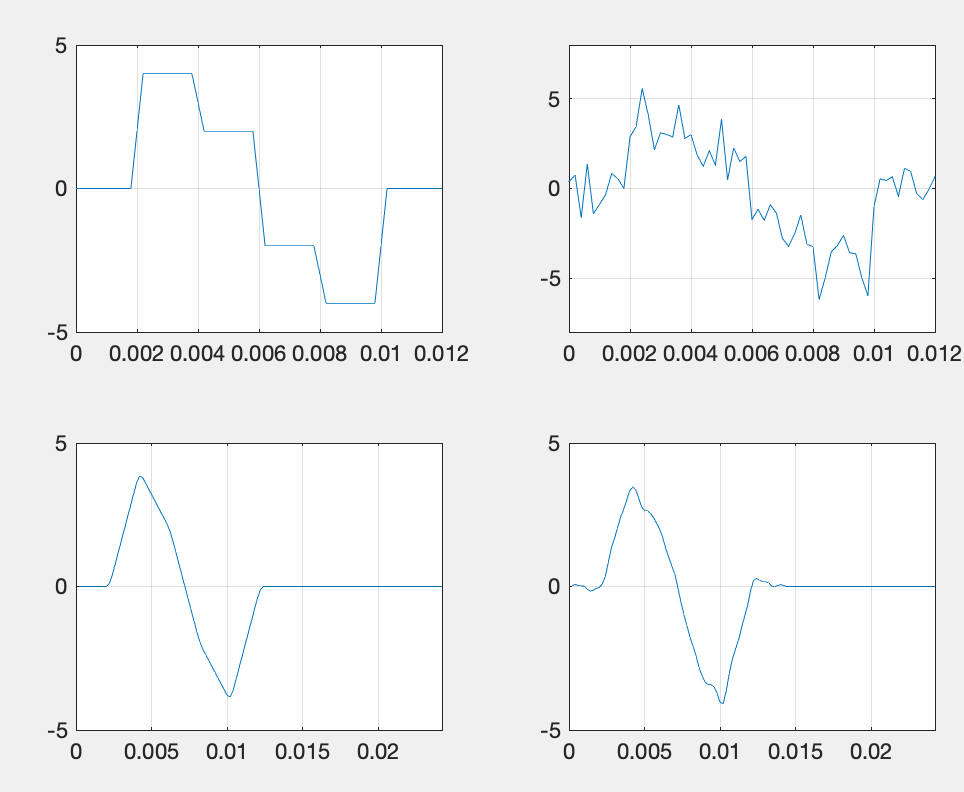
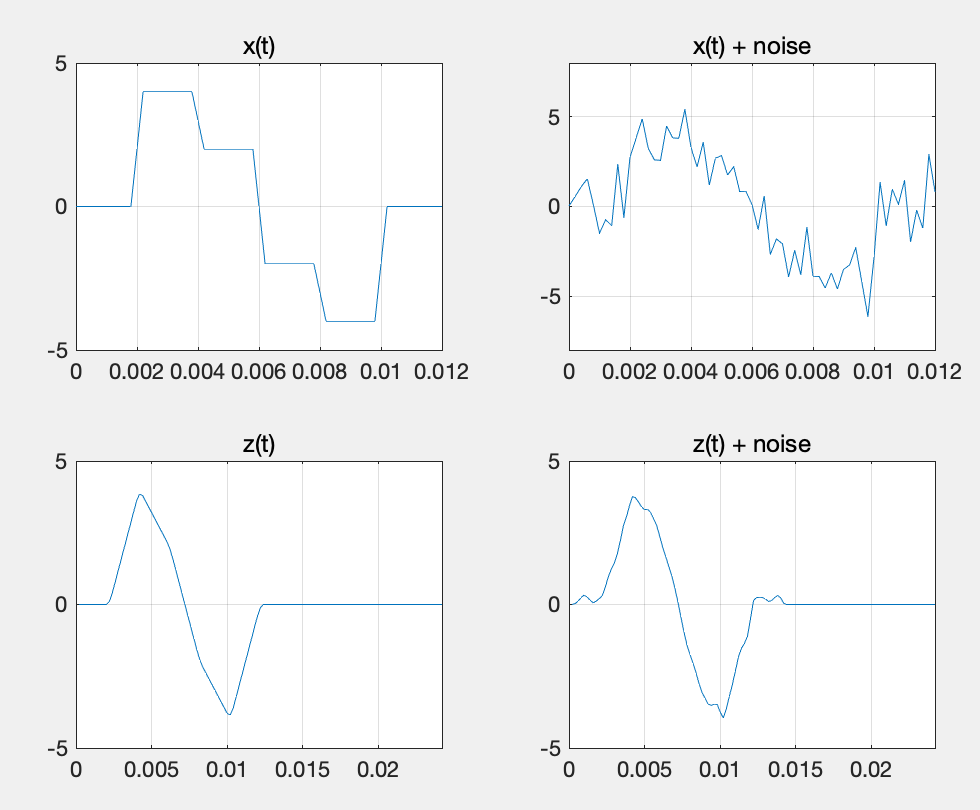
first version of lab2

diff --git a/lab2/task15.m b/lab2/task15.m
@@ -2,9 +2,9 @@ original_sequence_list = []
 bk_list = []
 
 % increase variance to test function
-for i = 1:50
+for i = 1:100
     original_sequence = create_test_sequence(8);
-    bk = match_filter_test(original_sequence,0,5);
+    bk = match_filter_test(original_sequence,0,i);
     
     original_sequence_list = [original_sequence_list;original_sequence]
     bk_list = [bk_list;bk]
@@ -12,3 +12,17 @@ end
 
 % check different index
 error_position = original_sequence_list ~= bk_list
+
+[m,n] = size(error_position)
+
+% find the variance when error happen 
+variance_position = []
+for i = 1:m
+    if(ismember(1,error_position(i,:)))
+        sprintf('When variance is %d, function cause error.',i) 
+        variance_position = [variance_position,i]
+    end
+end
+
+% show the density of error
+scatter(variance_position,variance_position)

diff --git a/lab2/task11.m b/lab2/task11.m
@@ -13,12 +13,14 @@ subplot(2,2,1)
 plot(t,singals_points)
 grid on
 axis([0 max(t) -5 5]) 
+title('x(t)')
 
-signal_noise_y = add_noise(singals_points)
+signal_noise_y = add_noise_parameters(singals_points,0,10)
 subplot(2,2,2)
 plot(t,signal_noise_y)
 grid on
 axis([0 max(t) -8 8]) 
+title('x(t) + noise')
 
 h_t = match_filter(t);
 
@@ -28,11 +30,13 @@ tz = T_0*(1:length(z_t))
 plot(tz,z_t)
 grid on
 axis([0 max(tz) -5 5])
+title('z(t)')
 
 z_t_noise =  T_0/T_s*conv(signal_noise_y, h_t)
 subplot(2,2,4)
 plot(tz,z_t_noise)
 grid on
 axis([0 max(tz) -5 5])
+title('z(t) + noise')
 
 zk = generate_zk(z_t_noise,4)

diff --git a/lab2/match_filter_test.m b/lab2/match_filter_test.m
@@ -1,5 +1,8 @@
 function bk = match_filter_test(binary_sequence, mu, variance)
 
+% @ param mu is mean of noise
+% @ param variance is the variance of noise
+
 % generate original signal
 signals_points = modulator(binary_sequence);
 

diff --git a/lab2/create_test_sequence.m b/lab2/create_test_sequence.m
@@ -1,5 +1,7 @@
 function str = create_test_sequence(length)
 
+% length means the length of binary sequence
+
 if(mod(length,2) == 1)
     length = length +1;
 end

diff --git a/lab2/report/EEE411-Lab2-advanced signal processing.md b/lab2/report/EEE411-Lab2-advanced signal processing.md
@@ -72,7 +72,7 @@ decode_value =
 
 ##### Analysis
 
-##### As we can see from result,  I can use this function to implement mapping. However I use hashmap to code, because this kind of data structure is very powerful and can be seen in most program languages. It is a key-value structure and use hash function for mapping fastly. By the way, we can use $if - else$ to implement this function too but it is a not beautiful method. 
+##### As we can see from result,  I can use this function to implement mapping. However I use hashmap which is called dictionary in python to code, because this kind of data structure is very powerful and can be seen in most program languages. It is a key-value structure and use hash function for mapping fastly. By the way, we can use $if - else$ to implement this function too but it is a not beautiful method. 
 
 #### Next, write a Matlab function that maps a sequence of data bits to the LAB function that maps a sequence of modulation symbols. 
 
@@ -120,7 +120,7 @@ decode_value =
 
 ##### Sketch
 
-
+<img src="/Users/geekye/Documents/Courses/advanced signal processing/lab/lab2/report/task2_2.jpeg" alt="task2_2" style="zoom: 50%;" />
 
 ##### Code 
 
@@ -162,11 +162,11 @@ $$
 
 ##### Sketch
 
-
+<img src="/Users/geekye/Documents/Courses/advanced signal processing/lab/lab2/report/task3_2.jpeg" style="zoom:50%;" />
 
 ##### Analysis
 
-##### The sketch is a sequence of signal and corresponding to theoretical curve.
+I choose ${4,2,-2,-4}$ as modulation symbols and $00011110$ as bit sequence. The sketch is a sequence of signal and corresponding to theoretical curve.
 
 ---
 
@@ -297,7 +297,7 @@ axis([0, 6*T_s, -5 5])
 
 ##### Analysis
 
-##### The transmit signal is corresponding to previous 2 problems. However the signal is $x_k(t) = a_k · p(t-T_s)$ in problem 4, and the signal is $x(t) = \sum_{k=1}^{K} a_k ·p(t-kT_s).$ in problem 5. Therefore, there is a little difference between them. But essence of these problem is same.
+##### The transmit signal is corresponding to previous 2 problems. However the signal is $x_k(t) = a_k · p(t-T_s)$ in problem 4, and the signal is $x(t) = \sum_{k=1}^{K} a_k ·p(t-kT_s)$ in problem 5. Therefore, there is a little difference between them.Because $x(t)$ is the sum of $x_k(t)$. But essence of these problem is same.
 
 ---
 
@@ -321,7 +321,7 @@ A[Recv Filter] -->|zt|B(Sampler)
 
 ##### Sketch
 
-
+<img src="/Users/geekye/Documents/Courses/advanced signal processing/lab/lab2/report/task5_2.jpeg" style="zoom:50%;" />
 
 ##### Code 
 
@@ -587,6 +587,8 @@ zk =
 
 ##### I use the 10 magnitude of step or 0.002 in time to obtain $z_k$ from $z(t)$, because we can find the interval of $z_k(t)$ is 0.002, and we use 10 samping points per period. Therefore, I use 10 samping length to get $z_k$. 
 
+---
+
 ### Problem 11 (12 points)
 
 #### Assume now transmission over an AWGN channel: $y(t) = x(t)+w(t)$. With Matlab you can obtain a noisy receive signal with the following commands: 
@@ -618,12 +620,14 @@ subplot(2,2,1)
 plot(t,singals_points)
 grid on
 axis([0 max(t) -5 5]) 
+title('x(t)')
 
-signal_noise_y = add_noise(singals_points)
+signal_noise_y = add_noise_parameters(singals_points,0,1)
 subplot(2,2,2)
 plot(t,signal_noise_y)
 grid on
 axis([0 max(t) -8 8]) 
+title('x(t) + noise')
 
 h_t = match_filter(t);
 
@@ -633,23 +637,39 @@ tz = T_0*(1:length(z_t))
 plot(tz,z_t)
 grid on
 axis([0 max(tz) -5 5])
+title('z(t)')
 
 z_t_noise =  T_0/T_s*conv(signal_noise_y, h_t)
 subplot(2,2,4)
 plot(tz,z_t_noise)
 grid on
 axis([0 max(tz) -5 5])
+title('z(t) + noise')
 
 zk = generate_zk(z_t_noise,4)
 ```
 
 ##### Result
 
-<img src="/Users/geekye/Documents/Courses/advanced signal processing/lab/lab2/report/task11.png" alt="image-20191122183735065" style="zoom:50%;" />
+<img src="/Users/geekye/Documents/Courses/advanced signal processing/lab/lab2/report/task11.png" alt="image-20191124153010551" style="zoom:50%;" />
+
+<center>noise with 1 variance</center>
+
+<img src="/Users/geekye/Documents/Courses/advanced signal processing/lab/lab2/report/task11_2.png" alt="image-20191124180700195" style="zoom:50%;" />
+
+<center>noise with 5 varian </center>
+
+<img src="/Users/geekye/Documents/Courses/advanced signal processing/lab/lab2/report/task11_3.png" alt="image-20191124180815640" style="zoom:50%;" />
+
+<center>
+  noise with 10 variance
+</center>
 
 ##### Analysis
 
-##### 
+As we can see from result, I choose various variance noise to experiment. Noise damage the signal on $y(t)$ and $z(t)$ to some extend. However noise has a bigger impact on $y(t)$ than $z(t)$. Noise almost destroy shape of $y(t)$, but $z(t)$ can be distinguished when variance of noise is 10. Therefore, it is easier to estimate the transmitted modulation symbol $a_k$ from $z(t)$.
+
+---
 
 ### Problem 12 (6 points)
 
@@ -701,7 +721,9 @@ ak =
 
 ##### Analysis
 
+I use the distance to get the closest point. For example, when we receive $2.1$ , we can calculate the distance to vector $[4,2,-2,-4]$. Then the result is $[1.9,0.1,4.1,6.1]$. Therefore the shortest distance is $0.1$ and $0.1$ is the absolute value of $2.1 - 2$ . Finally, the answer is 2. In addition, I use hashmap which is called dictionary in python to implement the mapping from distance to modulation symbol.
 
+---
 
 ### Problem 13 (6 points)
 
@@ -747,7 +769,7 @@ bk =
 
 ##### Analysis
 
-
+Because I use the hashmap (dictionary) in the form of $00 - 4$ in previous problems. In this problem, I use the hashmap in the form of $-4 - 00$ to map which is similar to previous function.
 
 ### Digital transmission system 
 
@@ -763,6 +785,9 @@ bk =
 
 ```matlab
 function bk = match_filter_test(binary_sequence, mu, variance)
+
+% @ param mu is mean of noise
+% @ param variance is the variance of noise
 
 % generate original signal
 signals_points = modulator(binary_sequence);
@@ -795,6 +820,8 @@ end
 ```matlab
 function str = create_test_sequence(length)
 
+% length means the length of binary sequence
+
 if(mod(length,2) == 1)
     length = length +1;
 end
@@ -811,9 +838,25 @@ end
 end
 ```
 
+```matlab
+original_sequence = create_test_sequence(8);
+bk = match_filter_test(original_sequence,0,1);
+```
+
+##### Result
+
+```matlab
+original_sequence =
+
+    '01010010'
+bk =
+
+    '01010010'
+```
+
 ##### Analysis
 
-
+As we can see from result, when noise with variance of 1, signal can be recover successfully. It is expected.
 
 ### Problem 15 (6 points)
 
@@ -826,16 +869,30 @@ original_sequence_list = []
 bk_list = []
 
 % increase variance to test function
-for i = 1:50
-original_sequence = create_test_sequence(8);
-bk = match_filter_test(original_sequence,0,5);
-
-original_sequence_list = [original_sequence_list;original_sequence]
-bk_list = [bk_list;bk] 
+for i = 1:100
+    original_sequence = create_test_sequence(8);
+    bk = match_filter_test(original_sequence,0,i);
+    
+    original_sequence_list = [original_sequence_list;original_sequence]
+    bk_list = [bk_list;bk]
 end
 
 % check different index
 error_position = original_sequence_list ~= bk_list
+
+[m,n] = size(error_position)
+
+% find the variance when error happen 
+variance_position = []
+for i = 1:m
+    if(ismember(1,error_position(i,:)))
+        sprintf('When variance is %d, function cause error.',i) 
+        variance_position = [variance_position,i]
+    end
+end
+
+% show the density of error
+scatter(variance_position,variance_position)
 ```
 
 ##### Result
@@ -849,53 +906,56 @@ error_position =
    0   0   0   0   0   0   0   0
    0   0   0   0   0   0   0   0
    0   0   0   0   0   0   0   0
+   % 0   1   0   0   1   0   0   0
    0   0   0   0   0   0   0   0
-   0   0   0   0   0   0   0   0
-   0   0   0   0   0   0   0   0
-   0   0   0   0   0   0   0   0
-   % 0   1   0   0   0   0   0   0 exist eroor
-   0   0   0   0   0   0   0   0
-   0   0   0   0   0   0   0   0
-   0   0   0   0   0   0   0   0
-   0   0   0   0   0   0   0   0
-   0   0   0   0   0   0   0   0
-   % 0   0   0   1   0   0   0   0 exist eroor
-   0   0   0   0   0   0   0   0
-   0   0   0   0   0   0   0   0
-   % 0   0   0   0   0   0   0   1 exist eroor
+   % 0   0   0   1   0   0   0   0
+   % 0   0   0   1   0   0   0   0
+   % 0   0   0   0   0   1   0   0
    0   0   0   0   0   0   0   0
    0   0   0   0   0   0   0   0
    0   0   0   0   0   0   0   0
    0   0   0   0   0   0   0   0
    0   0   0   0   0   0   0   0
-   0   0   0   0   0   0   0   0
-   % 0   0   0   0   0   1   0   0 exist eroor
-   0   0   0   0   0   0   0   0
+   % 0   0   1   0   0   0   0   1
    0   0   0   0   0   0   0   0
    0   0   0   0   0   0   0   0
+   % 0   1   0   0   0   1   0   1
+   0   0   0   0   0   0   0   0
+   % 0   1   0   1   1   0   0   0
+   0   0   0   0   0   0   0   0
+   % 0   1   0   0   0   0   0   1
+   % 0   1   0   0   0   0   0   0
+   % 0   0   0   1   0   0   0   0
+   0   0   0   0   0   0   0   0
+   % 0   0   0   1   0   0   0   1
    0   0   0   0   0   0   0   0
    0   0   0   0   0   0   0   0
+   % 0   1   0   0   0   0   0   0
    0   0   0   0   0   0   0   0
-   % 0   0   0   0   0   1   0   0 exist eroor
-   % 0   1   0   0   0   0   0   0 exist eroor
-   0   0   0   0   0   0   0   0
-   0   0   0   0   0   0   0   0
+   % 0   0   0   1   0   1   0   1
    0   0   0   0   0   0   0   0
    0   0   0   0   0   0   0   0
-   % 0   0   0   0   0   0   0   1 exist eroor
+   % 0   0   0   0   0   1   0   0
+   % 0   0   0   0   1   0   0   0
+   % 0   0   0   0   0   1   0   1
    0   0   0   0   0   0   0   0
+   % 0   0   0   1   0   1   0   0
+   % 0   1   0   1   0   0   0   1
+   % 0   0   0   0   0   0   0   1
+   % 1   0   0   0   0   0   0   0
    0   0   0   0   0   0   0   0
-   0   0   0   0   0   0   0   0
-   0   0   0   0   0   0   0   0
-   0   0   0   0   0   0   0   0
-   0   0   0   0   0   0   0   0
-   0   0   0   0   0   0   0   0
-   0   0   0   0   0   0   0   0
-   % 0   0   0   0   0   0   0   1 exist eroor
-   0   0   0   0   0   0   0   0
-   0   0   0   0   0   0   0   0
-   0   0   0   0   0   1   0   0
+   % 0   0   0   1   1   0   0   1
+   % 1   0   1   0   1   0   0   0
+   % 0   0   0   0   0   1   0   0
+   % 0   0   1   0   0   0   0   0
+   % 0   1   0   0   0   1   0   1
+   % 0   1   0   0   0   0   0   1
+   % 0   1   0   0   0   0   0   0
+   % 0   0   0   0   0   1   0   0
 ```
+
+![image-20191124190851993](/Users/geekye/Documents/Courses/advanced signal processing/lab/lab2/report/task15.png)
 
 ##### Analysis
 
+I test my function by changing vatiance from $1$ to $100$. Firstly, I write a function to find the error position of different variance. I find the frequency of error become larger when varance become larger. They are positively correlated. Therefore, I plot the figure about this position when error happen. It is obvious that when noise become larger, the function can't recover signal successfully. However, when variance is smaller than 20. The system has a good performance. Therefore, the result is expected.  
